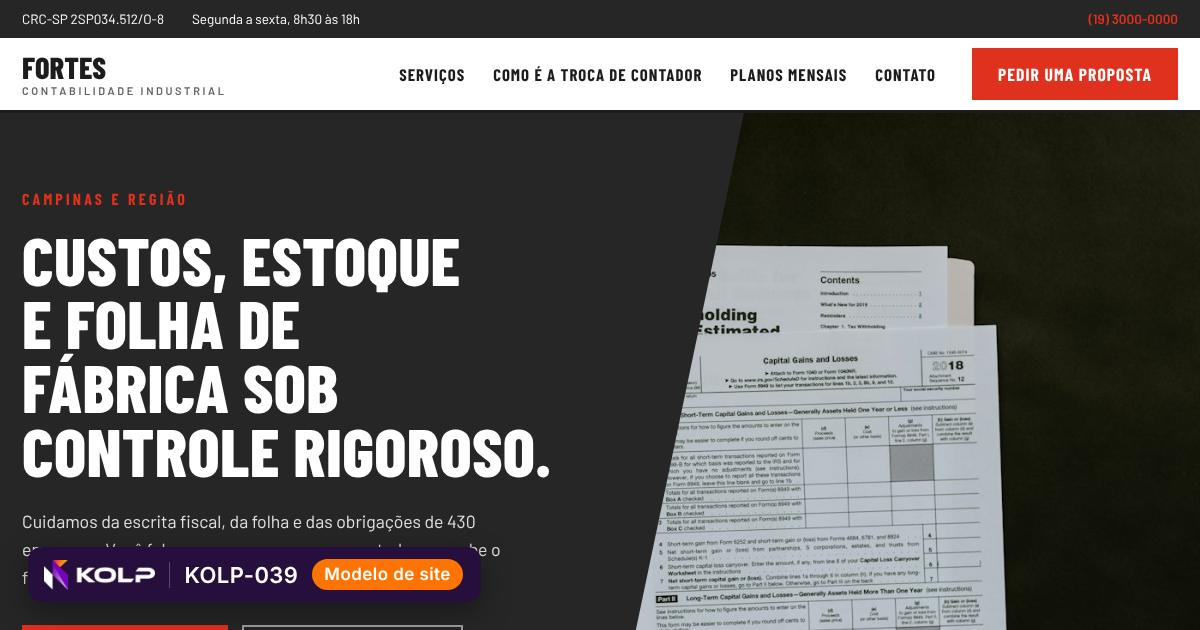
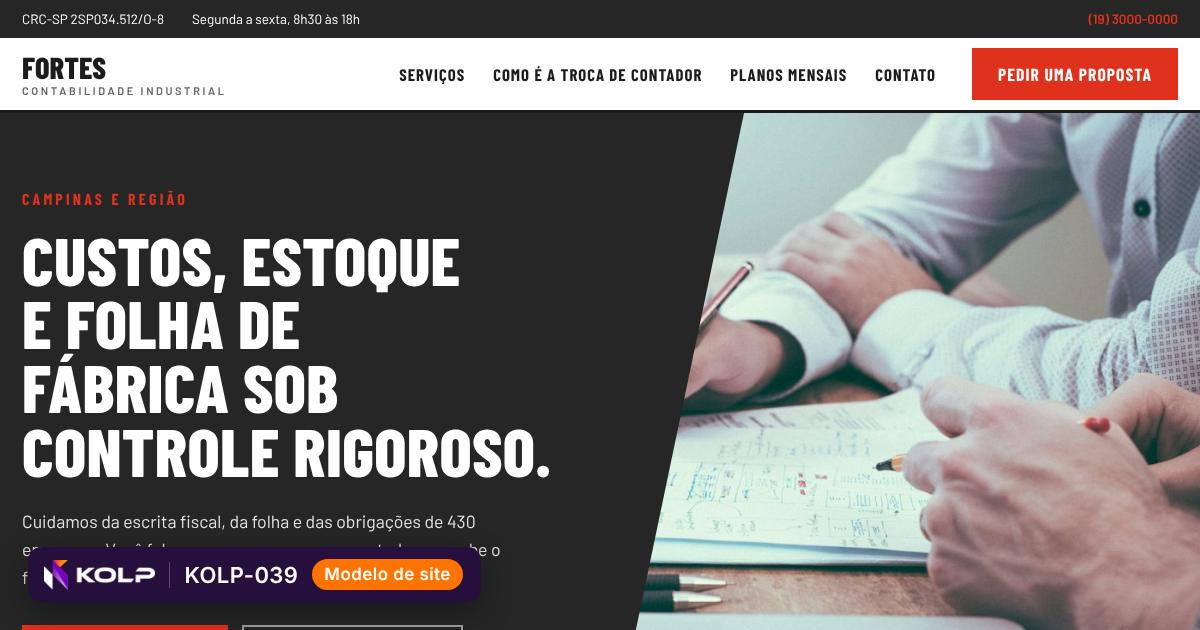
Add another photo for contabilidade models
Claude-Session: https://claude.ai/code/session_0151Yi9K8yWSyYvoKWm1KgPz

diff --git a/kolp-modelos/demo/contabilidade-07/index.html b/kolp-modelos/demo/contabilidade-07/index.html
@@ -35,7 +35,7 @@
       <p class="lide">Se uma guia vencer por falha nossa, pagamos os encargos. Está no contrato.</p>
       <div class="acoes"><a class="botao" href="#contato">Pedir uma proposta</a><a class="elo" href="#servicos">Ver planos e valores</a></div>
     </div>
-    <figure class="arco"><img src="../../fotos/contabilidade/1.jpg" alt="" width="1400" height="930"><figcaption>Desde 2003</figcaption></figure>
+    <figure class="arco"><img src="../../fotos/contabilidade/7.jpg" alt="" width="1400" height="930"><figcaption>Desde 2003</figcaption></figure>
   </div>
   <div class="largura"><dl class="indices"><div><dd>430</dd><dt>empresas atendidas</dt></div><div><dd>22</dd><dt>anos de escritório</dt></div><div><dd>99,8%</dd><dt>das guias emitidas no prazo em 2025</dt></div><div><dd>R$ 18 mil</dd><dt>de economia tributária média no 1º ano</dt></div></dl></div>
   </section>
@@ -43,7 +43,7 @@
     <header class="topo rev"><h2>Serviços</h2><p>Do CNPJ ao balanço, sem terceirizar nenhuma etapa.</p></header>
     <ol class="cartoes"><li class="rev"><h3>Abertura de empresa</h3><p>Contrato social, CNPJ, inscrições municipal e estadual, alvará e enquadramento tributário.</p></li><li class="rev"><h3>Contabilidade mensal</h3><p>Escrituração, apuração de impostos, emissão de guias, balancetes e balanço anual assinado.</p></li><li class="rev"><h3>Departamento pessoal</h3><p>Admissões, folha, férias, 13º, rescisões, eSocial e FGTS Digital.</p></li><li class="rev"><h3>Planejamento tributário</h3><p>Simulação anual entre os regimes, revisão do Fator R e do enquadramento de atividades.</p></li><li class="rev"><h3>Regularização</h3><p>Parcelamentos, certidões negativas, baixa de pendências na Receita e na prefeitura.</p></li><li class="rev"><h3>Imposto de renda</h3><p>Declaração dos sócios, ganho de capital, carnê-leão e malha fina.</p></li></ol>
   </div></section>
-  <section class="faixa rev"><img src="../../fotos/contabilidade/2.jpg" alt="" width="1400" height="930" loading="lazy"><p>“Contabilidade boa é a que avisa antes de a guia vencer, não depois.”</p></section>
+  <section class="faixa rev"><img src="../../fotos/contabilidade/1.jpg" alt="" width="1400" height="930" loading="lazy"><p>“Contabilidade boa é a que avisa antes de a guia vencer, não depois.”</p></section>
   <section class="precos" id="precos"><div class="largura precos-grade">
     <div class="precos-lado rev"><h2>Planos mensais</h2><p>Valor fixo, sem cobrança de 13ª mensalidade.</p><a class="botao" href="#contato">Pedir uma proposta</a></div>
     <div class="rev"><details open><summary>MEI</summary><ul><li><div><b>Mensalidade</b><span>Guia DAS e controle de faturamento</span></div><strong>R$ 89</strong></li><li><div><b>Declaração anual</b><span>DASN-SIMEI incluída</span></div><strong>incluso</strong></li><li><div><b>Notas fiscais</b><span>Até 10 por mês</span></div><strong>incluso</strong></li><li><div><b>Desenquadramento</b><span>Migração para ME</span></div><strong>R$ 390</strong></li></ul></details><details><summary>Simples Nacional</summary><ul><li><div><b>Mensalidade</b><span>Contábil e fiscal completos</span></div><strong>R$ 349</strong></li><li><div><b>Pró-labore</b><span>Até 2 sócios</span></div><strong>incluso</strong></li><li><div><b>Folha de pagamento</b><span>Até 3 funcionários</span></div><strong>incluso</strong></li><li><div><b>Certificado digital</b><span>e-CNPJ A1</span></div><strong>incluso</strong></li></ul></details><details><summary>Lucro Presumido</summary><ul><li><div><b>Mensalidade</b><span>A partir de</span></div><strong>R$ 690</strong></li><li><div><b>SPED</b><span>Contábil e Fiscal</span></div><strong>incluso</strong></li><li><div><b>Reunião de resultados</b><span>A cada trimestre</span></div><strong>incluso</strong></li><li><div><b>Funcionário adicional</b><span>Na folha</span></div><strong>R$ 45</strong></li></ul></details></div>

diff --git a/kolp-modelos/demo/contabilidade-08/index.html b/kolp-modelos/demo/contabilidade-08/index.html
@@ -34,17 +34,17 @@
     <p class="lide">Revisamos o seu enquadramento tributário todo ano. No primeiro, nossos clientes economizam em média R$ 18.400.</p>
     <div class="acoes"><a class="botao" href="#contato">Pedir uma proposta</a><a class="elo" href="#servicos">Ver planos e valores</a></div>
     <div class="mosaico">
-      <img class="m1" src="../../fotos/contabilidade/3.jpg" alt="" width="1400" height="930">
-      <img class="m2" src="../../fotos/contabilidade/2.jpg" alt="" width="1400" height="930">
-      <img class="m3" src="../../fotos/contabilidade/4.jpg" alt="" width="1400" height="930">
+      <img class="m1" src="../../fotos/contabilidade/2.jpg" alt="" width="1400" height="930">
+      <img class="m2" src="../../fotos/contabilidade/1.jpg" alt="" width="1400" height="930">
+      <img class="m3" src="../../fotos/contabilidade/3.jpg" alt="" width="1400" height="930">
       <p class="selo"><b>430</b>empresas atendidas</p>
     </div>
   </div></section>
   <section class="pontos"><ul class="largura"><li class="rev">Troca de contador sem custo</li><li class="rev">Multa por atraso é por nossa conta</li><li class="rev">Fechamento até o quinto dia útil</li></ul></section>
   <section class="servicos" id="servicos"><div class="largura">
     <header class="topo rev"><h2>Serviços</h2><p>Do CNPJ ao balanço, sem terceirizar nenhuma etapa.</p></header>
-    <div class="par rev"><img src="../../fotos/contabilidade/5.jpg" alt="" width="1400" height="930" loading="lazy"><ul><li><h3>Abertura de empresa</h3><p>Contrato social, CNPJ, inscrições municipal e estadual, alvará e enquadramento tributário.</p></li><li><h3>Contabilidade mensal</h3><p>Escrituração, apuração de impostos, emissão de guias, balancetes e balanço anual assinado.</p></li><li><h3>Departamento pessoal</h3><p>Admissões, folha, férias, 13º, rescisões, eSocial e FGTS Digital.</p></li></ul></div>
-    <div class="par par-inv rev"><img src="../../fotos/contabilidade/6.jpg" alt="" width="1400" height="930" loading="lazy"><ul><li><h3>Planejamento tributário</h3><p>Simulação anual entre os regimes, revisão do Fator R e do enquadramento de atividades.</p></li><li><h3>Regularização</h3><p>Parcelamentos, certidões negativas, baixa de pendências na Receita e na prefeitura.</p></li><li><h3>Imposto de renda</h3><p>Declaração dos sócios, ganho de capital, carnê-leão e malha fina.</p></li></ul></div>
+    <div class="par rev"><img src="../../fotos/contabilidade/4.jpg" alt="" width="1400" height="930" loading="lazy"><ul><li><h3>Abertura de empresa</h3><p>Contrato social, CNPJ, inscrições municipal e estadual, alvará e enquadramento tributário.</p></li><li><h3>Contabilidade mensal</h3><p>Escrituração, apuração de impostos, emissão de guias, balancetes e balanço anual assinado.</p></li><li><h3>Departamento pessoal</h3><p>Admissões, folha, férias, 13º, rescisões, eSocial e FGTS Digital.</p></li></ul></div>
+    <div class="par par-inv rev"><img src="../../fotos/contabilidade/5.jpg" alt="" width="1400" height="930" loading="lazy"><ul><li><h3>Planejamento tributário</h3><p>Simulação anual entre os regimes, revisão do Fator R e do enquadramento de atividades.</p></li><li><h3>Regularização</h3><p>Parcelamentos, certidões negativas, baixa de pendências na Receita e na prefeitura.</p></li><li><h3>Imposto de renda</h3><p>Declaração dos sócios, ganho de capital, carnê-leão e malha fina.</p></li></ul></div>
   </div></section>
   <section class="precos" id="precos"><div class="largura">
     <header class="topo rev"><h2>Planos mensais</h2><p>Valor fixo, sem cobrança de 13ª mensalidade.</p></header>

diff --git a/kolp-modelos/demo/contabilidade-10/index.html b/kolp-modelos/demo/contabilidade-10/index.html
@@ -30,7 +30,7 @@
 <div class="conteudo">
 <main>
   <section class="abertura">
-    <img src="../../fotos/contabilidade/4.jpg" alt="" width="1400" height="930">
+    <img src="../../fotos/contabilidade/3.jpg" alt="" width="1400" height="930">
     <div class="legenda"><p class="rotulo">Desde 2003 · Campinas e região</p><h1>Sócios contadores atendendo sócios de empresa, sem intermediário.</h1></div>
   </section>
   <section class="sobre" id="sobre">
@@ -41,7 +41,7 @@
     <header class="topo"><h2>Serviços</h2><p>Do CNPJ ao balanço, sem terceirizar nenhuma etapa.</p></header>
     <ul class="servicos"><li><h3>Abertura de empresa</h3><p>Contrato social, CNPJ, inscrições municipal e estadual, alvará e enquadramento tributário.</p></li><li><h3>Contabilidade mensal</h3><p>Escrituração, apuração de impostos, emissão de guias, balancetes e balanço anual assinado.</p></li><li><h3>Departamento pessoal</h3><p>Admissões, folha, férias, 13º, rescisões, eSocial e FGTS Digital.</p></li><li><h3>Planejamento tributário</h3><p>Simulação anual entre os regimes, revisão do Fator R e do enquadramento de atividades.</p></li><li><h3>Regularização</h3><p>Parcelamentos, certidões negativas, baixa de pendências na Receita e na prefeitura.</p></li><li><h3>Imposto de renda</h3><p>Declaração dos sócios, ganho de capital, carnê-leão e malha fina.</p></li></ul>
   </section>
-  <figure class="citacao"><img src="../../fotos/contabilidade/5.jpg" alt="" width="1400" height="930" loading="lazy"><blockquote>“Contabilidade boa é a que avisa antes de a guia vencer, não depois.”</blockquote></figure>
+  <figure class="citacao"><img src="../../fotos/contabilidade/4.jpg" alt="" width="1400" height="930" loading="lazy"><blockquote>“Contabilidade boa é a que avisa antes de a guia vencer, não depois.”</blockquote></figure>
   <section id="equipe">
     <header class="topo"><h2>Sócios</h2><p>Contadores com registro ativo e mais de quinze anos de escritório.</p></header>
     <div class="equipe"><article><img src="../../fotos/retratos/m4.jpg" alt="Retrato de Ricardo Lopes" width="560" height="680" loading="lazy"><div><h3>Ricardo Lopes</h3><p class="cargo">Sócio · CRC-SP 198.774</p><p>Contador e advogado tributarista. Responde pelo planejamento fiscal dos clientes.</p></div></article><article><img src="../../fotos/retratos/f4.jpg" alt="Retrato de Camila Ferraz" width="560" height="680" loading="lazy"><div><h3>Camila Ferraz</h3><p class="cargo">Sócia · CRC-SP 214.630</p><p>Especialista em departamento pessoal e eSocial, com MBA em Controladoria.</p></div></article><article><img src="../../fotos/retratos/m5.jpg" alt="Retrato de Jorge Almeida" width="560" height="680" loading="lazy"><div><h3>Jorge Almeida</h3><p class="cargo">Sócio · CRC-SP 176.218</p><p>Vinte e cinco anos de experiência em contabilidade industrial e de custos.</p></div></article></div>

diff --git a/kolp-modelos/demo/contabilidade-09/index.html b/kolp-modelos/demo/contabilidade-09/index.html
@@ -30,7 +30,7 @@
 </div></header>
 <main>
   <section class="abertura">
-    <img src="../../fotos/contabilidade/3.jpg" alt="" width="1400" height="930">
+    <img src="../../fotos/contabilidade/2.jpg" alt="" width="1400" height="930">
     <div class="abertura-bloco"><div>
       <p class="rotulo">Campinas e região</p>
       <h1>Custos, estoque e folha de fábrica sob controle rigoroso.</h1>
@@ -51,7 +51,7 @@
     <header class="topo"><h2>Planos mensais</h2><p>Valor fixo, sem cobrança de 13ª mensalidade.</p></header>
     <div class="tabela-rolagem"><table><tbody><tr class="grupo"><th colspan="3">MEI</th></tr><tr><th>Mensalidade</th><td>Guia DAS e controle de faturamento</td><td>R$ 89</td></tr><tr><th>Declaração anual</th><td>DASN-SIMEI incluída</td><td>incluso</td></tr><tr><th>Notas fiscais</th><td>Até 10 por mês</td><td>incluso</td></tr><tr><th>Desenquadramento</th><td>Migração para ME</td><td>R$ 390</td></tr></tbody><tbody><tr class="grupo"><th colspan="3">Simples Nacional</th></tr><tr><th>Mensalidade</th><td>Contábil e fiscal completos</td><td>R$ 349</td></tr><tr><th>Pró-labore</th><td>Até 2 sócios</td><td>incluso</td></tr><tr><th>Folha de pagamento</th><td>Até 3 funcionários</td><td>incluso</td></tr><tr><th>Certificado digital</th><td>e-CNPJ A1</td><td>incluso</td></tr></tbody><tbody><tr class="grupo"><th colspan="3">Lucro Presumido</th></tr><tr><th>Mensalidade</th><td>A partir de</td><td>R$ 690</td></tr><tr><th>SPED</th><td>Contábil e Fiscal</td><td>incluso</td></tr><tr><th>Reunião de resultados</th><td>A cada trimestre</td><td>incluso</td></tr><tr><th>Funcionário adicional</th><td>Na folha</td><td>R$ 45</td></tr></tbody></table></div>
   </div></section>
-  <section class="prova"><img src="../../fotos/contabilidade/4.jpg" alt="" width="1400" height="930" loading="lazy">
+  <section class="prova"><img src="../../fotos/contabilidade/3.jpg" alt="" width="1400" height="930" loading="lazy">
     <blockquote><p>“Paguei imposto a mais durante três anos sem saber. Refizeram o enquadramento da clínica e a alíquota caiu de 15,5% para 6%. Em oito meses recuperei o que tinha gasto com o escritório antigo.”</p><footer><b>Camila Rezende</b> sócia de clínica de fisioterapia, cliente desde 2021</footer></blockquote>
   </section>
   <section class="contato" id="contato"><div class="largura contato-grade">

diff --git a/kolp-modelos/demo/contabilidade-06/index.html b/kolp-modelos/demo/contabilidade-06/index.html
@@ -44,7 +44,7 @@
     <div><p class="frase rev">Contabilidade boa é a que avisa antes de a guia vencer, não depois.</p>
       <ol class="etapas"><li class="rev"><span>Etapa 1</span><h3>Diagnóstico gratuito</h3><p>Analisamos seu último balanço e as guias dos últimos doze meses.</p></li><li class="rev"><span>Etapa 2</span><h3>Proposta fechada</h3><p>Você recebe o valor mensal e a economia tributária estimada, por escrito.</p></li><li class="rev"><span>Etapa 3</span><h3>Transferência</h3><p>Buscamos livros e documentos no escritório atual. Você não precisa intermediar.</p></li><li class="rev"><span>Etapa 4</span><h3>Primeiro fechamento</h3><p>Assumimos no mês seguinte, com reunião de apresentação dos números.</p></li></ol></div>
   </div></section>
-  <figure class="faixa-foto rev"><img src="../../fotos/contabilidade/1.jpg" alt="" width="1400" height="930" loading="lazy"></figure>
+  <figure class="faixa-foto rev"><img src="../../fotos/contabilidade/7.jpg" alt="" width="1400" height="930" loading="lazy"></figure>
   <section class="casos" id="resultados"><div class="largura bloco">
     <h2 class="rotulo">03 — Resultados</h2>
     <div><article class="rev"><p class="resultado">430<small>empresas atendidas</small></p><div><h3>Carteira diversa</h3><p>Do MEI à indústria com duzentos funcionários, em quarenta atividades diferentes.</p></div></article><article class="rev"><p class="resultado">22<small>anos de escritório</small></p><div><h3>Experiência</h3><p>Acompanhamos três mudanças de regime tributário e todas as fases do eSocial.</p></div></article><article class="rev"><p class="resultado">99,8%<small>das guias emitidas no prazo em 2025</small></p><div><h3>Pontualidade</h3><p>Nossos clientes recebem as guias com cinco dias de antecedência.</p></div></article></div>

diff --git a/kolp-modelos/demo/contabilidade-05/index.html b/kolp-modelos/demo/contabilidade-05/index.html
@@ -52,7 +52,7 @@
       <a class="botao botao-grande" href="https://wa.me/5511999999999?text=Ol%C3%A1!%20Vim%20pelo%20site.">Pedir uma proposta</a></div>
   </div></section>
   <section class="loja" id="local">
-    <img class="loja-fundo" src="../../fotos/contabilidade/1.jpg" alt="" width="1400" height="930" loading="lazy">
+    <img class="loja-fundo" src="../../fotos/contabilidade/7.jpg" alt="" width="1400" height="930" loading="lazy">
     <div class="largura loja-grade"><div class="cartao">
       <h2>Receba uma proposta em um dia útil</h2>
       <p class="endereco">Av. Norte-Sul, 1.540 — sala 82, Cambuí, Campinas</p>
